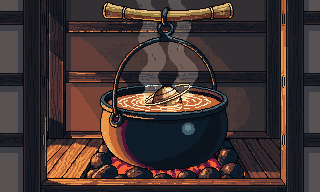
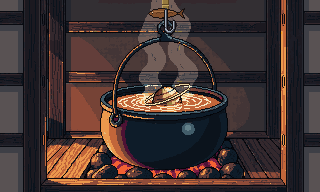
凍った湖: 鍋の一枚絵を自在鉤に吊るす形に、ほうとう屋の先を冬期通行止に
- 鍋の一枚絵: 横に渡した竹の棒を消し、竹筒・魚の横木・鉄の鉤棒・逆さ？の鉤で、鍋のつるの輪を吊る
- 湖畔の道の先: 黄と黒のゲートバーと「冬期通行止」の看板、先は深い雪。ぶつかるとはじかれて進めない

Claude-Session: https://claude.ai/code/session_01CdRwgmiiRbABwrAE7HmzdN

Changed region(s): [[0.3125, 0.0, 0.75, 0.1875]]

diff --git a/field/worlds.js b/field/worlds.js
@@ -18,6 +18,7 @@
     tires: { img: "s_tires", w: 64, h: 48, top: 8, bottom: 40, solid: [44, 12] },
     irori: { img: "k_irori", w: 128, h: 176, top: 0, bottom: 174, solid: [96, 84] },
     sign: { img: "s_sign_r", w: 32, h: 64, top: 1, bottom: 62, solid: [8, 6] },
+    closed: { img: "s_closed", w: 64, h: 48, top: 1, bottom: 47, solid: [54, 8] }, // 冬期通行止の看板
     signL: { img: "s_sign_l", w: 32, h: 64, top: 1, bottom: 62, solid: [8, 6] },
     shard: { img: "s_shard", w: 32, h: 32, top: 4, bottom: 26 },
     stove: { img: "k_stove", w: 64, h: 144, top: 0, bottom: 133, solid: [34, 14] }, // 鋳鉄のだるまストーブ
@@ -440,6 +441,7 @@
   ];
 
   const houtou = at("houtou", 12 * T, 16.4 * T, { id: "houtou" });
+  const GATE_X = 13.6 * T; // ほうとう屋の先の冬期通行止ゲート
 
   const LAKE = {
     tile: T,
@@ -460,13 +462,42 @@
     slippery(api, x, y) {
       return homeward(api) && y > 17 * T && y < 19 * T ? HOMEWARD_SLIP : false;
     },
+    // ほうとう屋の先は冬期通行止: ゲートで行けない(ぶつかるとはじかれる)
+    rails: [[[GATE_X, 8 * T], [GATE_X, 22 * T]]],
     drawGround(ctx, ox, oy, img, api) {
       if (api && homeward(api)) {
         ctx.fillStyle = "rgba(243, 246, 249, 0.88)";
         ctx.fillRect(ox, 17 * T + oy, 16 * T, 2 * T);
-        return;
+      } else {
+        centerLine(ctx, ox, oy, [[-T, 18 * T], [GATE_X - 6, 18 * T]]);
       }
-      centerLine(ctx, ox, oy, [[-T, 18 * T], [16 * T, 18 * T]]);
+      // ゲートの先: 除雪されず、深い雪に埋もれた道
+      const gx = GATE_X + ox;
+      const g = ctx.createLinearGradient(gx, 0, gx + 1.2 * T, 0);
+      g.addColorStop(0, "rgba(244, 247, 250, 0.7)");
+      g.addColorStop(1, "rgba(244, 247, 250, 1)");
+      ctx.fillStyle = g;
+      ctx.fillRect(gx, 16.8 * T + oy, 16 * T - GATE_X, 2.4 * T);
+      // ゲートバー(道を横切る、黄と黒のしま)と支柱
+      const y0 = 16.6 * T + oy;
+      const y1 = 19.4 * T + oy;
+      for (let y = y0; y < y1; y += 8) {
+        ctx.fillStyle = Math.floor((y - y0) / 8) % 2 ? "#1e1e22" : "#f0c020";
+        ctx.fillRect(gx - 3, y - 10, 6, Math.min(8, y1 - y));
+      }
+      ctx.strokeStyle = "#1a1a1e";
+      ctx.lineWidth = 1;
+      ctx.strokeRect(gx - 3.5, y0 - 10.5, 7, y1 - y0 + 1);
+      ctx.fillStyle = "#f7f9fb"; // バーに積もった雪
+      ctx.fillRect(gx - 4, y0 - 12, 8, 3);
+      for (const py of [y0, y1]) {
+        ctx.fillStyle = "#8a9099";
+        ctx.fillRect(gx - 4, py - 16, 8, 18);
+        ctx.fillStyle = "#b8bec6";
+        ctx.fillRect(gx - 4, py - 16, 2, 18);
+        ctx.fillStyle = "#f7f9fb";
+        ctx.fillRect(gx - 5, py - 18, 10, 3);
+      }
     },
     spawns: {
       west: { x: 0.9 * T, y: 18 * T, facing: "east" },
@@ -512,6 +543,14 @@
           api.warp("shop", "door");
         },
       },
+      // 冬期通行止の看板(道ばた)
+      at("closed", 12.6 * T, 20.3 * T, {
+        id: "closed",
+        range: 40,
+        interact(api) {
+          api.mutter("……");
+        },
+      }),
       at("pine", 13.6 * T, 9 * T),
       at("pine", 12.2 * T, 8.8 * T),
       at("bare", 14.4 * T, 11 * T),
@@ -1435,6 +1474,7 @@
         s_houtou: "s_houtou.png",
         s_tires: "s_tires.png",
         s_sign_r: "s_sign_r.png",
+        s_closed: "s_closed.png",
         s_sign_l: "s_sign_l.png",
         s_shard: "s_shard.png",
         k_wall: "k_wall.png",
